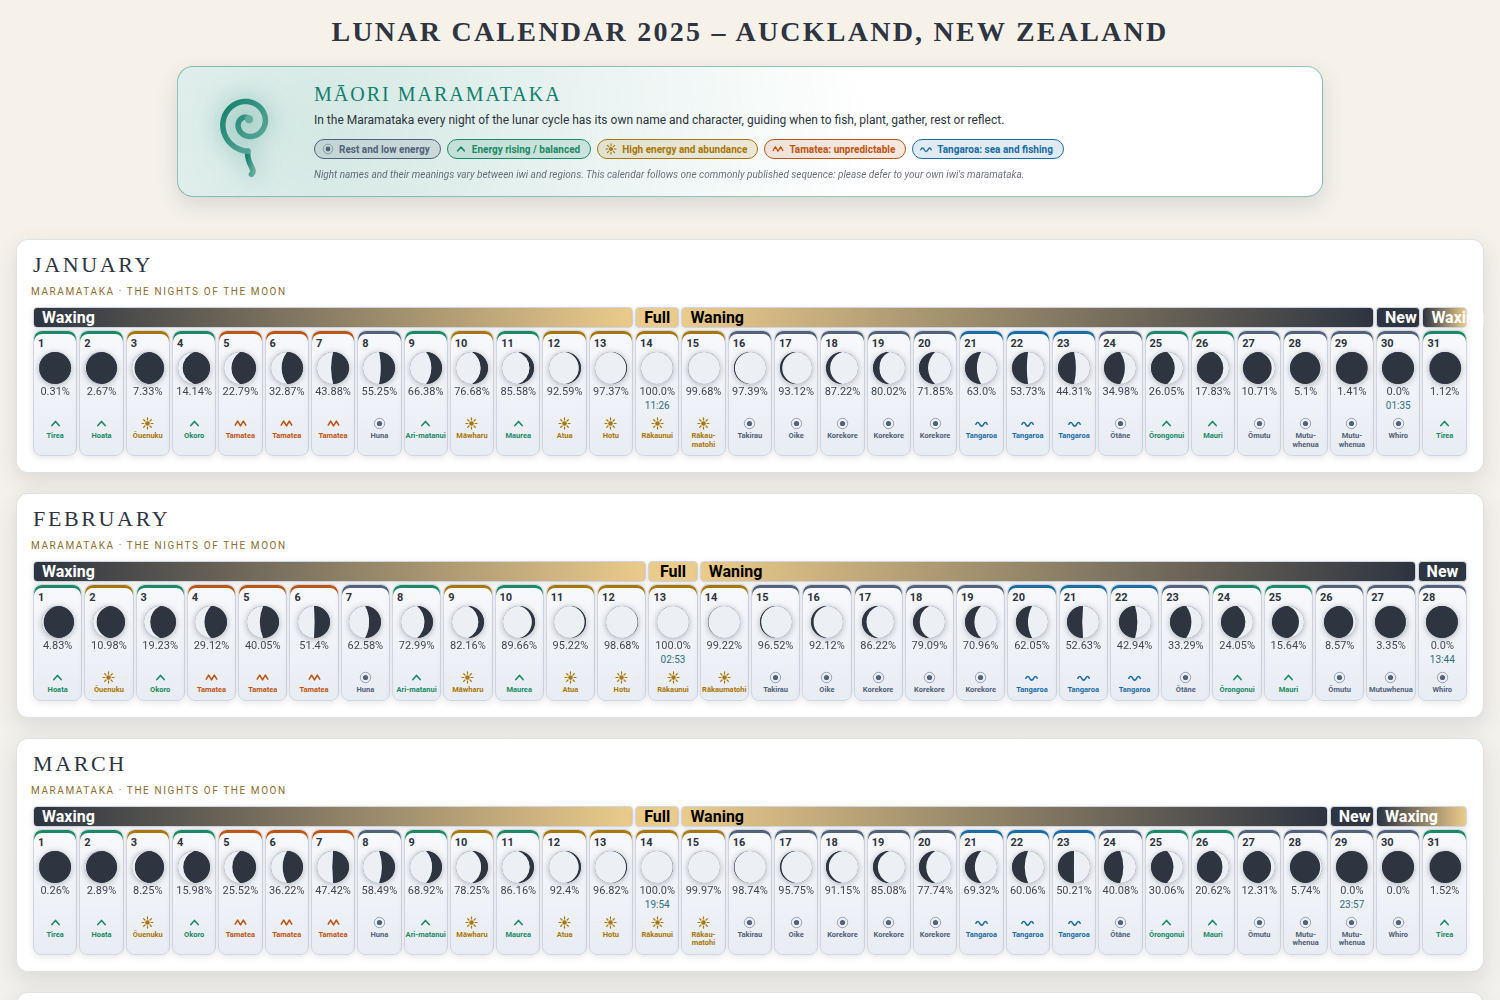
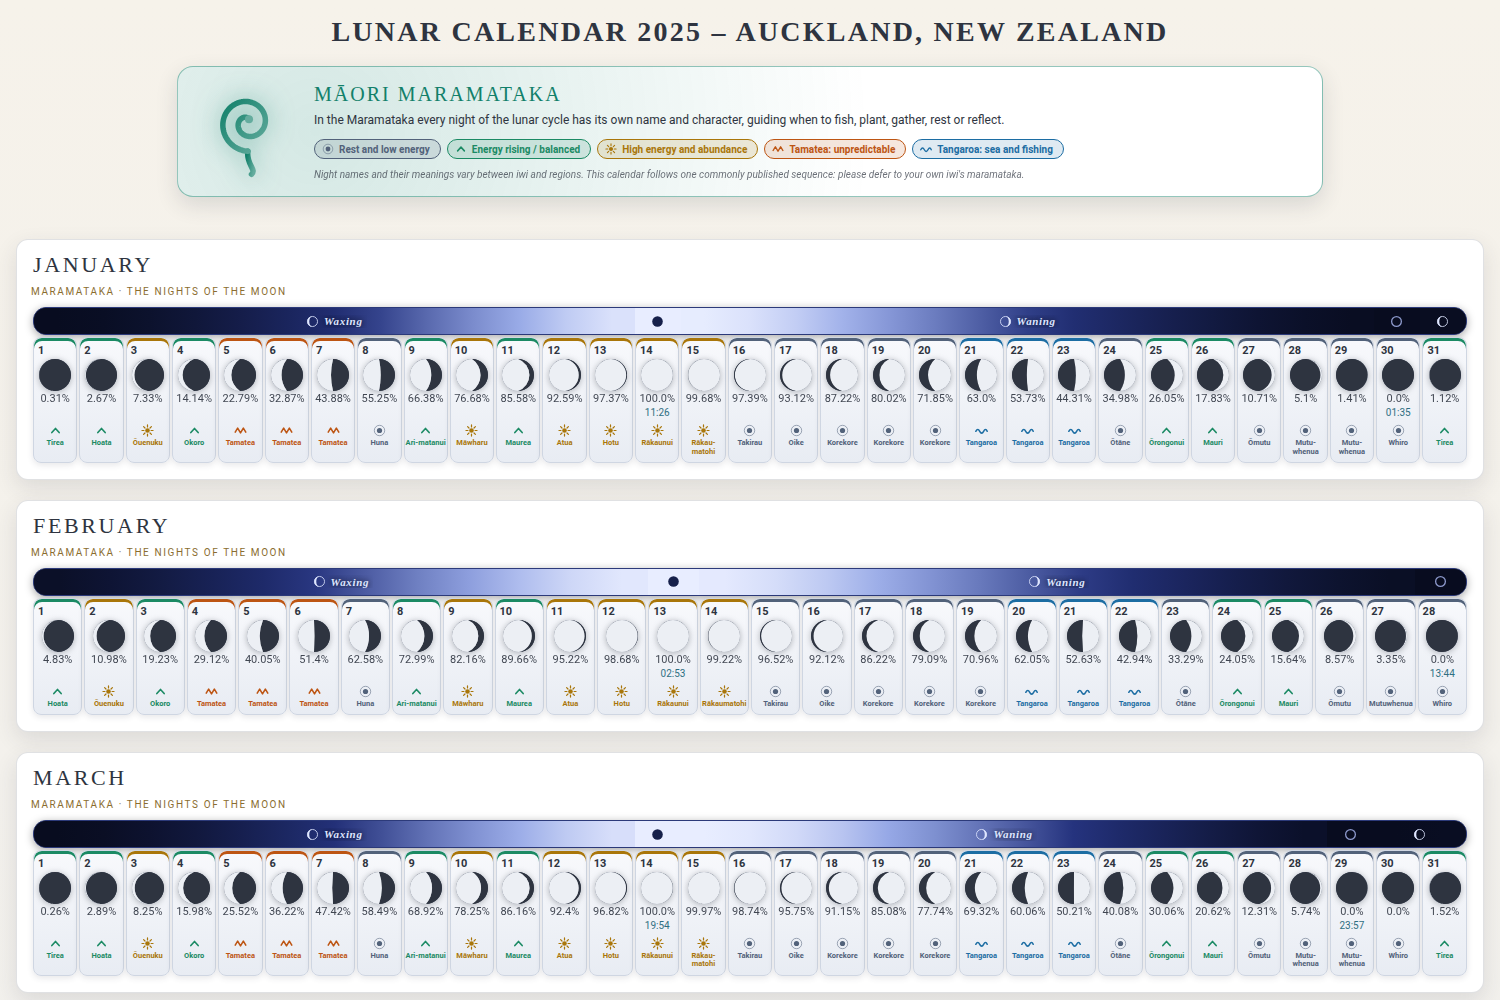
style: night-sky phase band that follows the moon's illumination, with phase glyphs and italic labels; refresh README screenshots

Changed region(s): [[0.0, 0.31, 1.0, 1.0]]

diff --git a/css/default.css b/css/default.css
@@ -93,41 +93,53 @@ td {
     margin-bottom: 2px;
 }
 
-/* ===== Phase badges (from print CSS) ===== */
-.phase {
-    font-weight: bold;
-    color: #fff;
-    border-radius: 4px;
-    padding: 0 8px
+/* ===== Phase band: a night-sky bar that follows the moon's illumination ===== */
+td.phase-band {
+    padding: 0;
+    background: none;
+    border: 0;
+    box-shadow: none;
+    border-radius: 0;
 }
 
-.phase-new {
-    background:  var(--new-color);
-    text-align: center
+.pb {
+    display: flex;
+    height: 26px;
+    border-radius: 13px;
+    overflow: hidden;
+    border: 1px solid #2c3a7a;
+    background: #0b1026;
+    box-shadow: inset 0 0 12px rgba(0, 0, 0, 0.6), 0 2px 8px rgba(0, 0, 0, 0.35);
 }
 
-.phase-waxing {
-    background: linear-gradient(
-        to right,
-        var(--new-color) 0%,
-                                var(--full-color) 100%
-    );
+.pb-seg {
+    min-width: 0;
+    display: flex;
+    align-items: center;
+    justify-content: center;
+    color: #dfe6ff;
+    text-shadow: 0 0 6px rgba(0, 0, 0, 0.85);
 }
 
-.phase-full {
-    background:  var(--full-color);
-    color: #000;
-    text-align: center
+.pb-seg.pb-lit { color: #16204a; text-shadow: none; }
+.pb-seg[data-p="new"] { color: #8b97c9; }
+
+.pb-inner {
+    display: inline-flex;
+    align-items: center;
+    gap: 5px;
+    padding: 0 4px;
+    white-space: nowrap;
+    overflow: hidden;
+    font-family: "Merriweather", "Georgia", serif;
+    font-style: italic;
+    font-weight: 600;
+    font-size: 11px;
+    letter-spacing: 0.06em;
 }
 
-.phase-waning {
-    background: linear-gradient(
-        to right,
-        var(--full-color) 0%,
-                                var(--new-color) 100%
-    );
-    color: #000
-}
+.pb-glyph { width: 13px; height: 13px; flex: 0 0 auto; }
+.pb-seg[data-p="full"] .pb-name { font-style: normal; font-weight: 700; }
 
 /* ===== Moon icon, halo, depth ===== */
 .moon-wrapper {

diff --git a/lunar/phase_band.py b/lunar/phase_band.py
@@ -1,0 +1,72 @@
+"""The phase band above each month: one night-sky bar that follows the real moon cycle.
+
+The bar is a single rounded strip. Its colour at each day is the moon's
+illumination (deep indigo at new moon, brightening to a silver glow at full moon),
+so the gradient is the lunar cycle itself. Each phase carries a small glyph and an
+italic label; narrow segments show the glyph only.
+"""
+
+from datetime import date
+
+# (illumination 0..1, rgb): deep night sky -> moonlight
+_STOPS = [(0.0, (8, 12, 31)), (0.5, (36, 50, 125)), (0.85, (150, 168, 230)), (1.0, (232, 237, 255))]
+
+_NAMES = {"New Moon": "New", "Full Moon": "Full", "Waxing": "Waxing", "Waning": "Waning"}
+_TITLES = {"New Moon": "New Moon", "Full Moon": "Full Moon", "Waxing": "Waxing", "Waning": "Waning"}
+
+# 16x16 glyphs: the lit part of the moon (waxing = lit on the right in the northern hemisphere)
+_GLYPH = {
+    "New Moon": '<circle cx="8" cy="8" r="6" fill="none" stroke="currentColor" stroke-width="1.6"/>',
+    "Full Moon": '<circle cx="8" cy="8" r="6.5" fill="currentColor"/>',
+    "Waxing": '<path d="M8 1.5a6.5 6.5 0 1 1 0 13 4 6.5 0 0 0 0-13z" fill="currentColor"/>'
+              '<circle cx="8" cy="8" r="6.2" fill="none" stroke="currentColor" stroke-width="1"/>',
+    "Waning": '<path d="M8 1.5a6.5 6.5 0 1 0 0 13 4 6.5 0 0 1 0-13z" fill="currentColor"/>'
+              '<circle cx="8" cy="8" r="6.2" fill="none" stroke="currentColor" stroke-width="1"/>',
+}
+
+
+def _colour(illum_pct: float) -> str:
+    t = max(0.0, min(1.0, illum_pct / 100.0))
+    for (t0, c0), (t1, c1) in zip(_STOPS, _STOPS[1:]):
+        if t <= t1:
+            f = (t - t0) / (t1 - t0)
+            r, g, b = (round(a + (b_ - a) * f) for a, b_ in zip(c0, c1))
+            return f"rgb({r},{g},{b})"
+    return "rgb(232,237,255)"
+
+
+def _glyph(phase: str, mirror: bool) -> str:
+    key = phase
+    if mirror and phase in ("Waxing", "Waning"):
+        key = "Waning" if phase == "Waxing" else "Waxing"
+    return f'<svg class="pb-glyph" viewBox="0 0 16 16" aria-hidden="true">{_GLYPH[key]}</svg>'
+
+
+def phase_band_row(days: int, phases: dict, illum: dict, mirror: bool = False) -> str:
+    """HTML of the phase-band table row for a month.
+
+    phases: day -> "New Moon" | "Waxing" | "Full Moon" | "Waning"
+    illum:  day -> illumination percent for that day
+    """
+    segs = []
+    d = 1
+    while d <= days:
+        phase = phases[d]
+        span = 1
+        while d + span <= days and phases[d + span] == phase:
+            span += 1
+        stops = ", ".join(
+            f"{_colour(illum[d + i])} {(i + 0.5) / span * 100:.1f}%" for i in range(span)
+        )
+        if span == 1:
+            stops = f"{_colour(illum[d])}, {_colour(illum[d])}"
+        centre = illum[d + span // 2]
+        lit = phase == "Full Moon" or centre >= 80
+        label = f"<span class='pb-name'>{_NAMES[phase]}</span>" if span >= 4 else ""
+        segs.append(
+            f"<div class='pb-seg{' pb-lit' if lit else ''}' data-p='{phase.split()[0].lower()}' "
+            f"style='flex:{span} 1 0;background:linear-gradient(90deg,{stops})' title='{_TITLES[phase]}'>"
+            f"<span class='pb-inner'>{_glyph(phase, mirror)}{label}</span></div>"
+        )
+        d += span
+    return f"<tr class='phase-row'><td colspan='{days}' class='phase-band'><div class='pb'>{''.join(segs)}</div></td></tr>\n"

diff --git a/lunar/html_writer.py b/lunar/html_writer.py
@@ -10,6 +10,7 @@ from . import config as cfg
 from .assets import js_json, load_css, load_js
 from .astro import assign_daily_phases, compute_phase_events_for_year, illumination_trend_for_date, moon_age_days, moon_illumination_percent, moon_phase_fraction, moon_rise_set_times, phase_name_for_date
 from .dates import month_name
+from .phase_band import phase_band_row
 from .moon_svg import is_southern_hemisphere, render_illumination_sparkline, render_moon_svg
 from .print_writer import write_print_html
 from .tradition_days import tradition_item_for_day
@@ -105,43 +106,14 @@ def write_html(year: int, output_path: str) -> None:
                     <span>Sun</span><span>Mon</span><span>Tue</span><span>Wed</span><span>Thu</span><span>Fri</span><span>Sat</span>
                 </div>
                 <table>
-                <tr class="phase-row">
             """
         else:
             html += f"<tr><td rowspan='2'><b>{month_name(m)}</b></td>"
 
-        # Row 1: phase bands
-        d = 1
-        while d <= days:
-            phase = phases[d]
-            span = 1
-            while d + span <= days and phases[d + span] == phase:
-                span += 1
-
-            display = (
-                "New" if phase == "New Moon"
-                else "Full" if phase == "Full Moon"
-                else phase
-            )
-
-            css = {
-                "New Moon": "phase-new",
-                "Waxing": "phase-waxing",
-                "Full Moon": "phase-full",
-                "Waning": "phase-waning"
-            }[phase]
-
-            html += (
-                f"<td colspan='{span}' class='phase {css}'>"
-                f"<div class='phase-inner'>{display}</div>"
-                f"</td>"
-            )
-            d += span
-
-        for _ in range(days + 1, 32):
-            if not cfg.COSMETICS_MODE:
-                html += "<td></td>"
-        html += "</tr>\n"
+        # Row 1: phase band (a single night-sky bar following the moon's illumination)
+        month_illum = {d: moon_illumination_percent(date(year, m, d)) for d in range(1, days + 1)}
+        html += phase_band_row(days, phases, {d: v[1] for d, v in month_illum.items()},
+                               mirror=is_southern_hemisphere())
 
         if layer and cfg.COSMETICS_MODE:
             html += layer.ribbon_row_html(m, days)
@@ -167,7 +139,7 @@ def write_html(year: int, output_path: str) -> None:
                 # Sunday-first weekday index; only used by the narrow-screen grid
                 # layout to offset the first day of the month.
                 dow = (day_date.weekday() + 1) % 7
-                event_time_str, illum = moon_illumination_percent(day_date)
+                event_time_str, illum = month_illum[d]
                 phase_name = phase_name_for_date(day_date, frac)
 
                 trad_item = None
